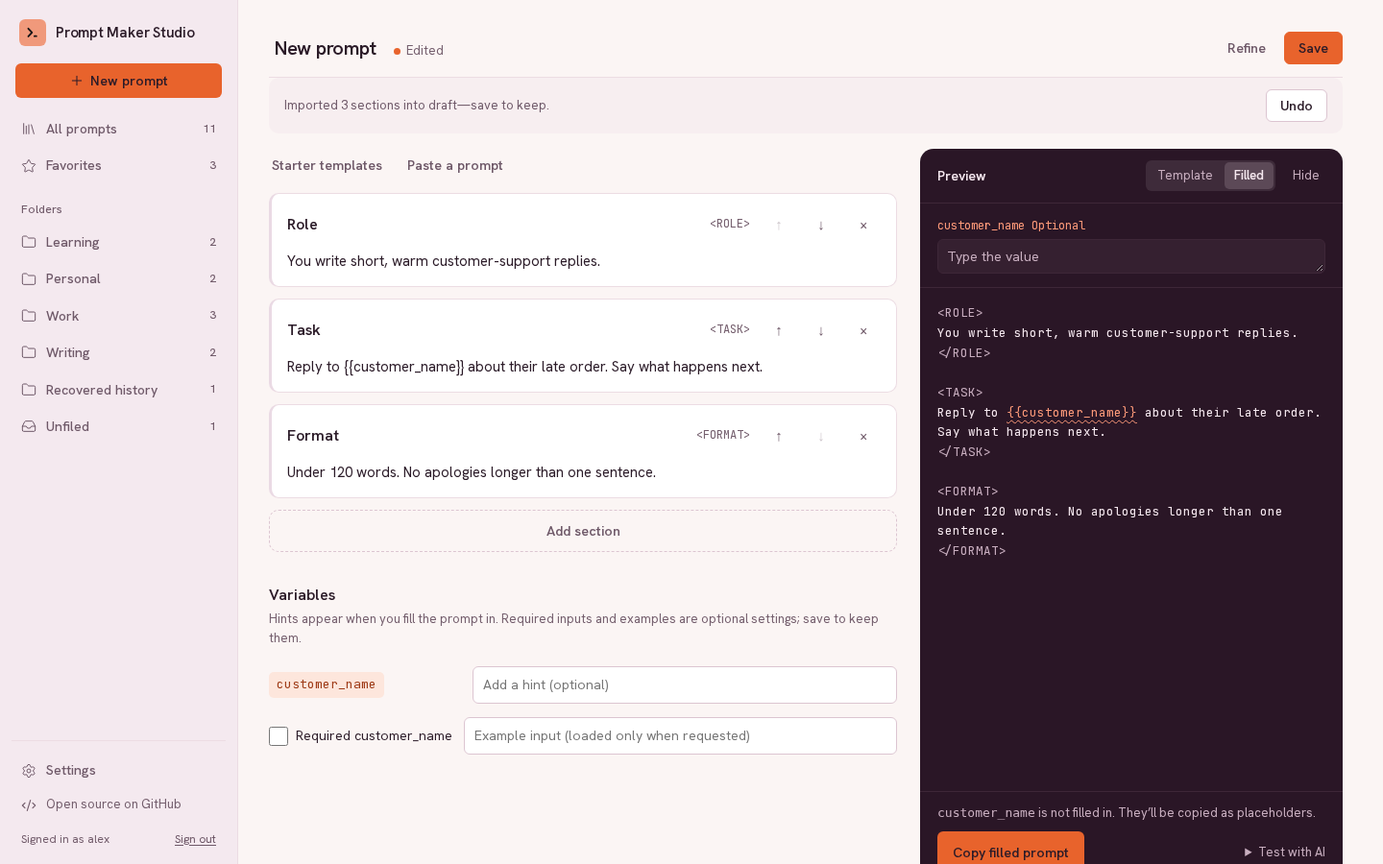
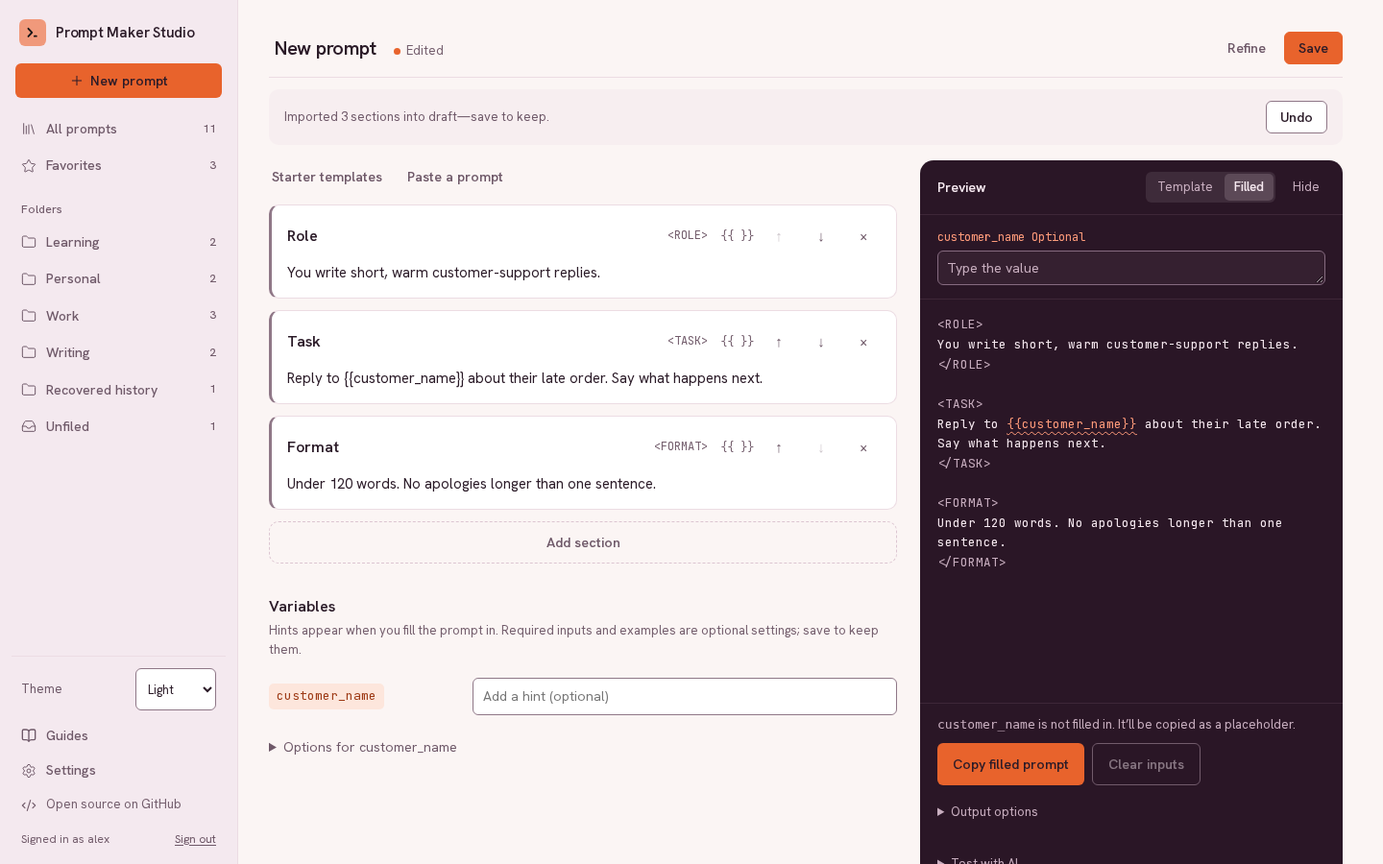
docs: record import and copy decisions, refresh screenshots

diff --git a/frontend/e2e/screenshots.spec.ts b/frontend/e2e/screenshots.spec.ts
@@ -88,11 +88,14 @@ test('captures the README screenshots', async ({ page }) => {
   await expect(page.getByRole('link', { name: 'Weekly status update', exact: true })).toBeVisible();
   await shoot(page, 'library');
 
-  // A saved prompt being filled in, with the text ready to copy.
+  // A saved prompt's sections beside its filled-in preview, ready to copy.
   await page.getByRole('link', { name: 'Weekly status update', exact: true }).click();
   await expect(page.getByRole('radio', { name: 'Filled' })).toHaveAttribute('aria-checked', 'true');
   await page.getByLabel('team', { exact: true }).fill('Payments');
   await page.getByLabel('week', { exact: true }).fill('6–10 Oct');
+  // Show the sections beside the filled preview, as the landing page describes.
+  await page.getByRole('button', { name: 'Edit template', exact: true }).click();
+  await expect(page.getByLabel('Role text')).toBeVisible();
   await shoot(page, 'editor');
 
   // Comparing an earlier version with the current text.
@@ -118,9 +121,7 @@ test('captures the README screenshots', async ({ page }) => {
   await page.setViewportSize(PHONE);
   await page.goto('/library');
   await page.getByRole('link', { name: 'Reply to a tricky email', exact: true }).click();
-  await expect(page.getByRole('tab', { name: 'Fill and copy' })).toHaveAttribute(
-    'aria-selected',
-    'true',
-  );
+  await expect(page.getByRole('button', { name: 'Edit template', exact: true })).toBeVisible();
+  await expect(page.getByRole('button', { name: 'Copy filled prompt' })).toBeVisible();
   await shoot(page, 'phone');
 });

diff --git a/product/FEATURES.md b/product/FEATURES.md
@@ -1,6 +1,6 @@
 # Implemented Features
 
-> Reviewed against the codebase: 2026-10-17 (published 0.6.0).
+> Reviewed against the codebase: 2026-10-19 (unreleased changes on `dev`).
 > Latest published release: 0.6.0; see the [release record](../docs/releases/0.6.0.md).
 
 Prompt Maker Studio is a home for prompts people keep retyping into chat assistants: each prompt
@@ -37,16 +37,16 @@ and the reasoning is in `product/DECISIONS.md`.
 | Section display names | ✅ Implemented | Names may contain spaces ("Output format"); only the tag joins them with underscores and upper-cases them (`<OUTPUT_FORMAT>`). Whitespace is collapsed, names must start with a letter or underscore, and two names that render to the same tag are rejected on both client and server | `backend/app/schemas/prompts.py`, `backend/app/services/prompt_sections.py`, `frontend/src/lib/sections.ts` |
 | Save a new prompt | ✅ Implemented | `POST /api/prompts` creates a named prompt with its sections, optional folder, and variable hints (201). The editor asks for a name and folder, then moves to the prompt's stable URL | `backend/app/api/routes.py` (`create_prompt`), `frontend/src/features/editor/PromptEditor.tsx` |
 | Explicit save with optional note | ✅ Implemented | Save (button or Ctrl/⌘+S, which never opens the browser's Save page) PATCHes the sections; a version note can be added without a dialog, saving unchanged content does nothing, and a save in flight cannot be sent twice | `frontend/src/features/editor/PromptEditor.tsx` |
-| Live preview with fill and copy | ✅ Implemented | The preview pane shows exactly the text that will be copied on a contrasting dark surface. With variables it switches between Template and Filled; Filled shows an input per variable using its hint as the placeholder. "Copy template" and "Copy filled prompt" copy each form; a filled copy warns which variables are still placeholders, a template copy never warns | `frontend/src/features/editor/PreviewPane.tsx`, `frontend/src/lib/sections.ts` |
-| Variables and hints | ✅ Implemented | `{{variables}}` are detected across all sections. Each section's Insert input (`{{ }}`) adds one at the caret, or turns selected text into an input and keeps that text as its example (unless one exists). Each can have a hint, required flag and multiline example input. Examples load only on request; missing required inputs block normal filled copying and Try once, with an explicit Copy with placeholders escape hatch. Metadata for a removed variable is kept as unused until removed. Stored types are preserved but no longer edited | `frontend/src/features/editor/VariablesPanel.tsx`, `prompts.variable_metadata` |
+| Live preview with fill and copy | ✅ Implemented | The preview pane shows exactly the text that will be copied on a contrasting dark surface. With variables it switches between Template and Filled; Filled shows an input per variable using its hint as the placeholder. "Copy template" and "Copy filled prompt" copy each form; a filled copy warns which variables are still placeholders, a template copy never warns. A prompt with a single section copies as plain text by default; Output options can add the section tags | `frontend/src/features/editor/PreviewPane.tsx`, `frontend/src/lib/sections.ts` |
+| Variables and hints | ✅ Implemented | `{{variables}}` are detected across all sections. Each section's Insert input (`{{ }}`) adds one at the caret, or turns selected text into an input and keeps that text as its example (unless one exists); a name with spaces becomes `snake_case`. Each can have a hint, required flag and multiline example input. Examples load only on request; missing required inputs block normal filled copying and Try once, with an explicit Copy with placeholders escape hatch. Metadata for a removed variable is kept as unused until removed. Stored types are preserved but no longer edited | `frontend/src/features/editor/VariablesPanel.tsx`, `prompts.variable_metadata` |
 | Inline checks | ✅ Implemented | Empty sections and unevenly opened tags have advisory notices; previews over 40,000 characters have a quiet notice. Section content over the 10,000-character API limit is flagged inline and blocks saving | `frontend/src/features/editor/SectionCard.tsx`, `frontend/src/features/editor/PreviewPane.tsx` |
 | Starter templates | ✅ Implemented | Role, task, format; Rewrite my text; Summarise something; Persona. Sections start empty with hints as placeholders, so no filler text is saved by accident. Reachable from the editor and from the empty library | `frontend/src/lib/starterTemplates.ts`, `frontend/src/features/editor/PromptEditor.tsx` |
-| Paste a prompt | ✅ Implemented | Inline on a new prompt, in the Tools menu on a saved one. Save as written without AI with an editable short name suggested from the first line, or review AI-created sections and detected variables with exact original values; rename variables, keep inputs fixed, copy immediately, or apply to a recoverable draft with Undo. Examples require explicit opt-in and Save. Existing parse-text callers retain fields-only output (`POST /api/prompts/parse-text`, 20/min) | `backend/app/services/prompt_parser.py`, `backend/app/api/routes.py`, `frontend/src/features/editor/ImportDialog.tsx` |
+| Paste a prompt | ✅ Implemented | Inline on a new prompt, in the Tools menu on a saved one. Save as written without AI with an editable short name suggested from the first line, or review AI-created sections (with readable names, never a title section) and detected variables with exact original values, where placeholder text such as `[TOPIC]` leaves the value empty; rename variables, keep inputs fixed, copy immediately, or apply to a recoverable draft with Undo. Examples require explicit opt-in and Save. Existing parse-text callers retain fields-only output (`POST /api/prompts/parse-text`, 20/min) | `backend/app/services/prompt_parser.py`, `backend/app/api/routes.py`, `frontend/src/features/editor/ImportDialog.tsx` |
 | Anthropic workspace selection | ✅ Implemented | Optional per-user workspace ID for multi-workspace keys, shared by every AI feature; forwarded only to Anthropic’s hostname with redirects disabled. Settings validates it and manual connection testing verifies access. Migration 029 leaves existing connections unchanged | `backend/app/services/llm_client.py`, `backend/app/services/accounts/connections.py`, `frontend/src/features/settings/LLMConnectionForm.tsx` |
-| AI prompt refinement | ✅ Implemented | Refine current sections, including new and unsaved prompts: explicitly find questions, answer, review section-level word diffs, apply locally with Undo, then save normally. Closing retains the session; changing its source requires restarting. Desktop replaces the preview; mobile uses a full-screen modal. The backend checks section names/order and per-section variables/tags before returning edits | `frontend/src/features/editor/RefinePanel.tsx`, `backend/app/api/refine_routes.py`, `backend/app/services/prompt_refiner.py` |
+| AI prompt refinement | ✅ Implemented | Refine current sections, including new and unsaved prompts: explicitly find questions (never about what a `{{variable}}` should be) and answer them, or Improve without questions; review section-level word diffs, apply locally with Undo, then save normally. Closing retains the session, and an applied draft can be applied again after Undo without another AI call; changing its source requires restarting. Desktop replaces the preview; mobile uses a full-screen modal. The backend checks section names/order and per-section variables/tags before returning edits | `frontend/src/features/editor/RefinePanel.tsx`, `backend/app/api/refine_routes.py`, `backend/app/services/prompt_refiner.py` |
 | Draft recovery | ✅ Implemented | Unsaved edits are kept in localStorage per user and prompt, restored with a notice and a "Discard changes" action, and only when the saved prompt has not changed since; drafts are wiped on sign-out | `frontend/src/features/editor/usePromptEditor.ts`, `frontend/src/features/editor/useDraftPersistence.ts`, `frontend/src/lib/branding.ts` |
 | Edit conflict handling | ✅ Implemented | Every editor PATCH carries `last_updated_at` (optional for REST clients and mandatory for MCP updates); a change from another tab or session returns 409, the editor keeps the local edits and offers "Load latest version", after which saving deliberately overwrites | `backend/app/api/routes.py`, `frontend/src/features/editor/PromptEditor.tsx` |
-| Version history, compare and restore | ✅ Implemented | Each content-changing save snapshots the previous state. The History panel, opened from the editor's Tools menu, lists versions with dates and notes, shows a word-level diff against the current text, and restores; a restore is itself snapshotted, so it can be undone, and is blocked while there are unsaved edits. Versions from before 0.3.0 whose text disagrees with their sections are restored from their text | `backend/app/services/prompt_version_service.py`, `frontend/src/features/editor/HistoryPanel.tsx`, `frontend/src/lib/diff.ts` |
+| Version history, compare and restore | ✅ Implemented | Each content-changing save snapshots the previous state. The History panel, opened from the editor's Tools menu, lists versions with notes and the time each was written, shows a word-level diff against the current text, and restores; a restore is itself snapshotted, so it can be undone, and is blocked while there are unsaved edits. Versions from before 0.3.0 whose text disagrees with their sections are restored from their text | `backend/app/services/prompt_version_service.py`, `frontend/src/features/editor/HistoryPanel.tsx`, `frontend/src/lib/diff.ts` |
 | Rename and move from the editor | ✅ Implemented | The header's prompt name renames in place and its folder opens a move dialog; neither creates a version | `frontend/src/features/editor/PromptEditor.tsx` |
 | Phone editing | ✅ Implemented | Below 760px the editor switches between Edit and Fill and copy tabs; saved prompts open on Fill and copy, with full-width copy buttons and a full-screen History panel | `frontend/src/features/editor/PromptEditor.module.css` |
 | Stable prompt identifiers | ✅ Implemented | Prompt IDs come from a SQLite high-water mark, so deleting the newest prompt cannot make an old URL resolve to a future prompt | `backend/app/services/prompt_id_service.py`, migration 018 |
@@ -54,13 +54,13 @@ and the reasoning is in `product/DECISIONS.md`.
 ## Library & Organization
 | Feature | Status | Description | Implemented in |
 |---|---|---|---|
-| Library home | ✅ Implemented | `/library` opens the library (`/` sends signed-in visitors there): every prompt, sorted by content recency or title, in a list or grid (opening in the layout chosen in Settings; both show folder, variable count and edit time, and snippets prefer the Task section), with accent-insensitive search across names, folders, section names and text, showing highlighted matching context | `frontend/src/features/library/LibraryPage.tsx`, `frontend/src/app/page.tsx` |
+| Library home | ✅ Implemented | `/library` opens the library (`/` sends signed-in visitors there): every prompt, sorted by content recency or title, in a list or grid (the toggle saves the Settings layout preference; both show folder, variable count and edit time, and snippets prefer the Task section and mark `{{inputs}}`), with accent-insensitive search across names, folders, section names and text where every word must match in any order, showing highlighted matching context | `frontend/src/features/library/LibraryPage.tsx`, `frontend/src/app/page.tsx` |
 | Copy a template from the library | ✅ Implemented | One click per prompt, with actions visible in list and grid | `frontend/src/features/library/LibraryPage.tsx` |
-| Collection import and batch filing | ✅ Implemented | Add existing prompts is the library's single entry point: paste text or choose a file, preview JSON exports, structured Markdown or single notes (filename/editable/simple front-matter titles) with section text, edit titles/folders, and create new copies (up to 100 prompts and 5 MB). A single note can be kept as written or handed to Make reusable with AI. Favorites carry over; history, dates and notes are not restored. After success, Open imported prompts or Import more. Select library prompts to file together; partial failures stay available for retry | `frontend/src/features/library/ImportPrompts.tsx`, `frontend/src/lib/promptImport.ts`, `frontend/src/features/library/useLibrary.ts` |
+| Collection import and batch filing | ✅ Implemented | Add existing prompts is the library's single entry point: paste text or choose a file, preview JSON exports, structured Markdown or single notes (filename/editable/simple front-matter titles) with section text, edit titles/folders (or one folder for all), and create new copies (up to 100 prompts and 5 MB). Note front matter is removed and the rest read as Markdown unless the original text is kept. Placeholders such as `[TOPIC]`, `{audience}` or `<transcript>` can be turned into inputs, with Undo. A single note can be kept as written or handed to Make reusable with AI, which carries its title and folder to Save. Favorites carry over; history, dates and notes are not restored. After success, Open imported prompts or Import more. Select library prompts to file together; partial failures stay available for retry | `frontend/src/features/library/ImportPrompts.tsx`, `frontend/src/lib/promptImport.ts`, `frontend/src/features/library/useLibrary.ts` |
 | Content recency | ✅ Implemented | Section/variable edits and restores advance content recency; favorite, rename and folder changes only advance the concurrency timestamp. Migration 028 preserves historical last-known update times | `backend/app/services/prompts/library.py`, `backend/app/database/migrations/v028_prompt_content_updated_at.py` |
 | Favorites | ✅ Implemented | Star a prompt; Favorites is a sidebar view | `prompts.is_favorite`, `frontend/src/features/library/LibraryPage.tsx` |
 | Folders | ✅ Implemented | Flat folders are labels on prompts, listed with counts in the sidebar with Unfiled and Recovered history last. Prompts are filed when saved or moved; `PATCH /api/prompts/folders?name=` renames a folder (renaming onto an existing one merges them) and `DELETE /api/prompts/folders?name=` removes one, unfiling its prompts — both scoped to the caller and leaving edit times alone | `backend/app/api/routes.py`, `frontend/src/components/shell/Sidebar.tsx`, `frontend/src/features/library/LibraryPage.tsx` |
-| Prompt actions | ✅ Implemented | Each prompt's menu: Copy template, Copy as plain text, Rename (inline; a duplicate name is allowed but flagged), Move to folder, Duplicate (with "Open copy"), Delete. Delete removes the prompt at once with a 5-second Undo, and only then calls the server; a delete still inside its window is sent on navigation or tab close | `frontend/src/features/library/LibraryPage.tsx`, `frontend/src/lib/api.ts` (`flushDeletePrompt`) |
+| Prompt actions | ✅ Implemented | Each prompt's menu: Copy template, Copy as plain text (or Copy with section tags for a single-section prompt, which copies as plain text by default), Rename (inline; a duplicate name is allowed but flagged), Move to folder, Duplicate (with "Open copy"), Delete. Delete removes the prompt at once with a 5-second Undo, and only then calls the server; a delete still inside its window is sent on navigation or tab close | `frontend/src/features/library/LibraryPage.tsx`, `frontend/src/lib/api.ts` (`flushDeletePrompt`) |
 | Prompt duplication | ✅ Implemented | Deep-copies sections, folder, stored metadata/tags and evaluation cases under a collision-free copy name; favorite, version history and evaluation-run history start fresh | `backend/app/api/routes.py` (`duplicate_prompt`) |
 | Empty library start | ✅ Implemented | A new account sees what the library is for, with New prompt, Add existing prompts, and the starter templates | `frontend/src/features/library/LibraryPage.tsx` |
 | Data export | ✅ Implemented | Downloads every prompt with its folder, stored tags and full version history as JSON (10/min) | `GET /api/prompts/export`, `frontend/src/features/settings/` |
@@ -88,7 +88,7 @@ and the reasoning is in `product/DECISIONS.md`.
 |---|---|---|---|
 | Theme | ✅ Implemented | Light, Dark or System in the sidebar and Settings; stored in the browser, applied before first paint, and synchronized across controls, tabs and system changes on public and authenticated pages | `frontend/src/features/settings/PreferencesSettings.tsx`, `frontend/src/app/layout.tsx` |
 | Default library layout | ✅ Implemented | List or grid, stored on the account and saved with inline progress | `users.default_library_view`, `frontend/src/features/settings/` |
-| Bring-your-own AI connection | ✅ Implemented | Optional. Provider (OpenAI, Anthropic, Gemini, Ollama, vLLM, or a custom OpenAI-compatible endpoint), base URL, model and the user's own API key, stored Fernet-encrypted and never returned (only a masked hint); a connection test and Disconnect. Users without one fall back to the operator's optional server default, which the operator pays for; AI actions name the connection in use and who pays. It powers Paste a prompt, refinement, Try once, evaluations and AI case suggestions | `backend/app/services/llm_client.py`, `backend/app/services/llm_providers.py`, `backend/app/services/secret_store.py`, `frontend/src/features/settings/LLMConnectionForm.tsx` |
+| Bring-your-own AI connection | ✅ Implemented | Optional. Provider (OpenAI, Anthropic, Gemini, Ollama, vLLM, or a custom OpenAI-compatible endpoint), base URL, model and the user's own API key, stored Fernet-encrypted and never returned (only a masked hint); a connection test and Disconnect, which asks before erasing the key and names any server default that would replace it. Users without one fall back to the operator's optional server default, which the operator pays for; AI actions name the connection in use and who pays. It powers Paste a prompt, refinement, Try once, evaluations and AI case suggestions | `backend/app/services/llm_client.py`, `backend/app/services/llm_providers.py`, `backend/app/services/secret_store.py`, `frontend/src/features/settings/LLMConnectionForm.tsx` |
 | Curated hosted models & local discovery with pricing | ✅ Implemented | OpenAI, Anthropic and Gemini offer a curated current-model dropdown, available before setup; saved legacy connections keep running but updates require a current choice. Local/custom providers retain discovery, cached per user, and manual entry; estimates are per 1M tokens and self-hosted models are $0 | `backend/app/services/llm_model_catalog.py`, `backend/app/services/llm_pricing.py`, `frontend/src/features/settings/LLMConnectionForm.tsx` |
 
 ## Data Recovery for 0.3.0
@@ -103,7 +103,7 @@ all model calls require an explicit action, and saving a prompt never starts an 
 
 | Feature | Status | Description | Implemented in |
 |---|---|---|---|
-| Prompt evaluation | ✅ Implemented | Test-case rows and inline editing with Automatic checks, AI review and Manual review; variable hints, intentional-placeholder acknowledgement, CSV import/export, and AI suggestions reviewed and edited before saving. Explicit runs show outputs, scoring reasons, structured judge feedback and historical inputs; run comparison matches case identities and flags changed conditions. Manual ratings finalize the overall score after all pending results are rated. Failed, partially failed, awaiting-rating and scored runs have distinct states, with safe provider guidance. New automatic cases offer guided checks and preserve advanced criteria. Provider and caller/shared budget status gate billed actions; rejection shows scope/reset time and requires an explicit availability recheck | `frontend/src/features/evaluation/`, `backend/app/api/eval_routes.py` |
+| Prompt evaluation | ✅ Implemented | Test-case rows and inline editing with Automatic checks, AI review and Manual review; variable hints, intentional-placeholder acknowledgement, CSV import/export, and AI suggestions (realistic inputs first; an adversarial case only for prompts that handle other people's text) reviewed and edited before saving. Explicit runs show outputs, scoring reasons, structured judge feedback and historical inputs; run comparison matches case identities and flags changed conditions. Manual ratings finalize the overall score after all pending results are rated. Failed, partially failed, awaiting-rating and scored runs have distinct states, with safe provider guidance. New automatic cases offer guided checks and preserve advanced criteria. Provider and caller/shared budget status gate billed actions; rejection shows scope/reset time and requires an explicit availability recheck | `frontend/src/features/evaluation/`, `backend/app/api/eval_routes.py` |
 | Model execution service | ✅ Internal | `PlaygroundService` compiles a prompt with variable values and runs it on the user's connection, recording latency, tokens and cost; evaluations use it. The standalone Playground screen and endpoints were retired | `backend/app/services/playground_service.py`, `backend/app/services/prompt_compiler.py` |
 | Eval preferences | ⏸ Inactive | `default_eval_method` and `auto_run_eval_on_update` are still stored and returned, but nothing reads them; evaluations never start on their own | `users.default_eval_method`, `users.auto_run_eval_on_update` |
 

diff --git a/product/DECISIONS.md b/product/DECISIONS.md
@@ -1075,3 +1075,55 @@ only the rail). Selected and error states keep their existing colours.
 
 **Sources**: `frontend/src/app/globals.css`, `frontend/src/components/ui/Input.module.css`,
 `frontend/src/components/ui/Select.module.css`, `frontend/src/components/ui/Button.module.css`.
+
+---
+
+## Imported Notes Drop Front Matter and Offer Placeholder Inputs
+
+**Status**: Accepted (2026-10-19)
+
+**Context**: A persona test (someone moving prompts out of Notion and Obsidian) found that
+imported notes kept their YAML front matter and `# Title` line inside the prompt text, so both
+appeared in library snippets and were pasted into chat assistants. Placeholders people already
+write, such as `[TOPIC]`, `{audience}` or `<transcript>`, stayed plain text, and Make reusable
+with AI filled inputs with that placeholder text as if it were a value.
+
+**Decision**: Library import removes front matter and reads the rest of the note as Markdown, so
+a leading `# Title` becomes the title and `##` headings become sections; a preview checkbox keeps
+the original text instead. The preview lists placeholder spellings it recognises and converts
+them to `{{inputs}}` only when asked, with Undo. AI conversion keeps such text as an input's
+source phrase but leaves its value empty, names AI sections as display names, and receives the
+note body with its title and folder carried through to Save.
+
+**Rationale**: Front matter is note metadata, not instructions for a model. Placeholder detection
+is a heuristic, so it stays an explicit, reversible offer rather than an automatic rewrite.
+
+**Consequences**: Supersedes "all single-note text, including front matter, is preserved" from
+"One Library Entry Point for Existing Prompts". A note with front matter and `##` headings now
+imports as several sections, matching notes that already started with `# Title`.
+
+**Sources**: `frontend/src/lib/promptImport.ts`, `frontend/src/features/library/ImportPrompts.tsx`,
+`backend/app/services/prompt_parser.py`, `frontend/src/features/editor/usePromptEditor.ts`.
+
+---
+
+## Single-Section Prompts Copy as Plain Text by Default
+
+**Status**: Accepted (2026-10-19)
+
+**Context**: Notes imported or saved as written become one section, so every copy wrapped the
+user's own text in `<PROMPT>` or `<TASK>` tags they never wrote. Plain-text copying existed but
+sat behind Output options and the library menu.
+
+**Decision**: When a prompt has exactly one section, the editor preview and the library's Copy
+template default to plain text. Output options and the library menu (Copy with section tags) still
+add the tags. Prompts with two or more sections keep tags by default.
+
+**Rationale**: Tags separate sections; with a single section they separate nothing.
+
+**Consequences**: Amends the "Output stays XML-style only" consequence of "Sections Are the Only
+Thing Clients Write": stored `generated_prompt`, the API and the ChatGPT plugin still render tags;
+only the default copy format in the web app changes.
+
+**Sources**: `frontend/src/features/editor/PreviewPane.tsx`, `frontend/src/features/library/useLibrary.ts`,
+`frontend/src/features/library/LibraryPage.tsx`.

diff --git a/CHANGELOG.md b/CHANGELOG.md
@@ -85,7 +85,8 @@ any release. See [Project status](./README.md#project-status).
 - Suggested evaluation cases favour realistic inputs and add an adversarial case only
   for prompts that handle text from other people. The empty-state text hides while
   suggestions are shown.
-- The landing page mentions importing Markdown notes from Notion or Obsidian.
+- The landing page mentions importing Markdown notes from Notion or Obsidian, and its screenshots and
+  the documentation screenshots show the current app.
 
 ## [0.7.0] - 2026-10-18
 
